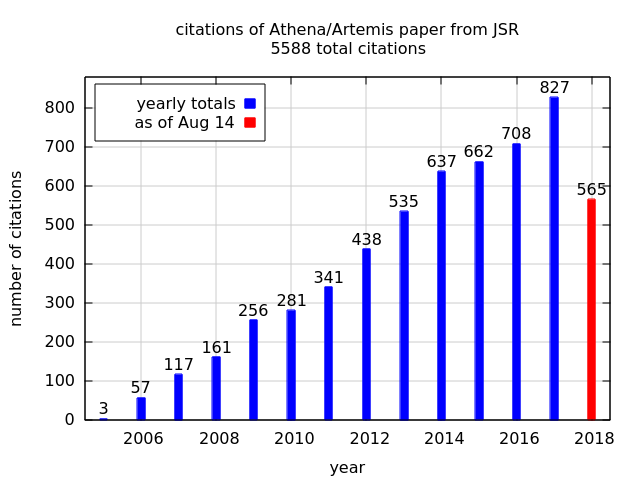
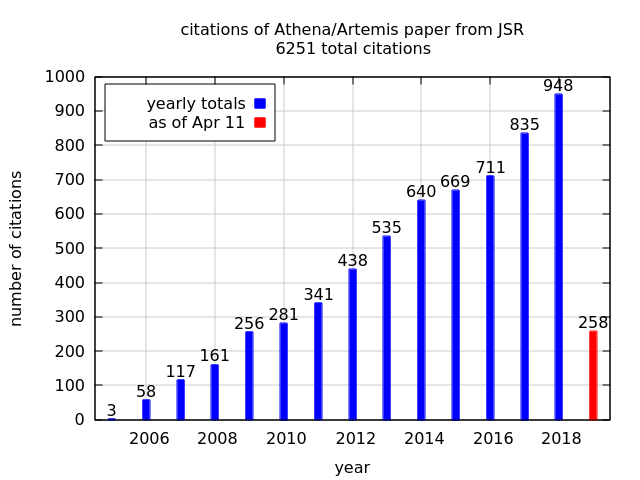
update citations

Changed region(s): [[0.0625, 0.125, 0.9688, 0.9375], [0.2812, 0.0312, 0.8125, 0.125], [0.5, 0.9688, 0.5938, 1.0]]

diff --git a/cv.tex b/cv.tex
@@ -136,9 +136,9 @@
   training materials.  Several times each year, I teach XAS training
   courses at synchrotrons and other institutions around the
   world. \newline{} The publication introducing the software has over
-  5500 citations as of August, 2018, making it the highest cited
+  6250 citations as of April, 2019, making it the highest cited
   article in the Journal of Synchrotron Radiation.  The $g$-index of
-  this paper is 101.}
+  this paper is 109.}
 
 \cvline{Inform XAS analysis using local structure theory}%
 {Local structural theories -- molecular dynamics, Monte Carlo,
